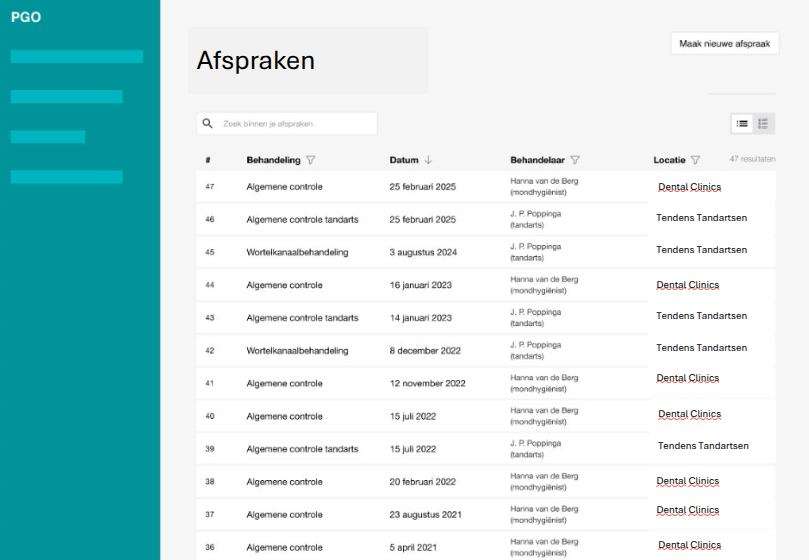
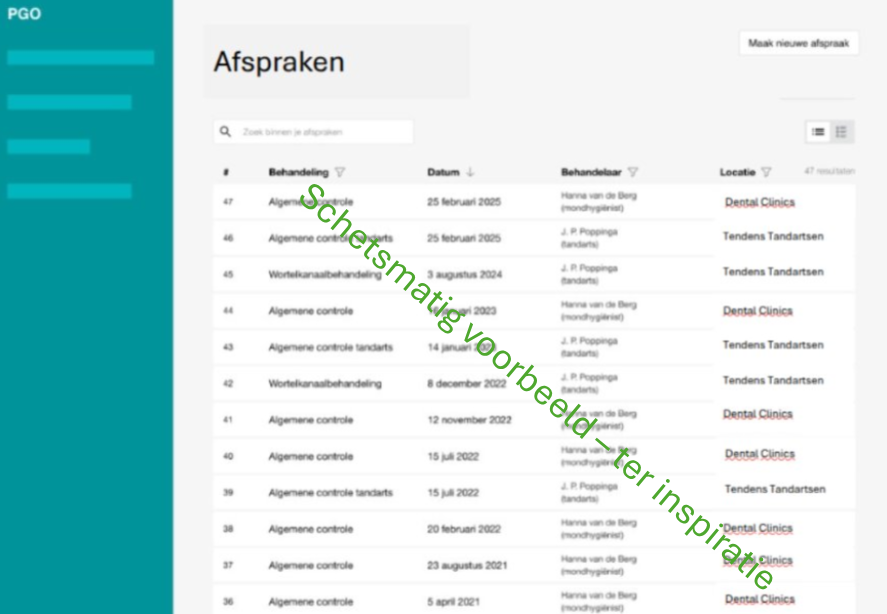
DOSINZAGE1-1030: Applied changes initially made in DOSINZAGE1-1001

diff --git a/guides/medmij-r4-dental-care-ig/Home/Functional-Design/Display-guideline.page.md b/guides/medmij-r4-dental-care-ig/Home/Functional-Design/Display-guideline.page.md
@@ -55,7 +55,7 @@ De acceptatiecriteria voor de overzichtsschermen van elke CIM is als volgt.
 | --- | --- |
 | 1 | Standaard worden alle beschikbaar gestelde gegevens van de zorgaanbieders(s) overzichtelijk weergegeven, gesorteerd op datum van nieuw naar oud. |
 | 2 | Je kunt zoeken op (delen van) de gegevens of op informatie uit de datavelden in het overzichtsscherm. De datum vormt hierop een uitzondering, omdat hiervoor al een periode kan worden opgegeven. |
-| 3 | Voor de datavelden in het overzichtsscherm is het mogelijk om te filteren op één of meerdere waarden. De datum vormt hierop een uitzondering, omdat hiervoor al een periode kan worden opgegeven. |
+| 3 | Voor de datavelden in het overzichtsscherm is het mogelijk om te filteren op één of meerdere waarden. De datum vormt hierop een uitzondering, omdat hiervoor al een periode kan worden opgegeven. Ook datavelden die leiden tot een te lange lijst vormen een uitzondering. |
 | 4 | Voor het datumveld in het overzichtsscherm kun je een specifieke periode selecteren. |
 | 5 | In het overzichtsscherm kan minimaal op datum worden gesorteerd, maar bij voorkeur is sorteren op alle datavelden mogelijk. |
 | 6 | De datavelden in het overzichtsscherm zijn begrijpelijk en gebruiksvriendelijk geformuleerd. Zie de {{pagelink: Weergaverichtlijn, text: Tabel met specificaties, anchor: TabelSpecificaties}} voor de aanbevolen termen per opgehaald dataveld. In verband met beperkte schermruimte op mobiele apparaten mogen de labelnamen van de datavelden in het overzichtsscherm worden weggelaten. |
@@ -371,7 +371,7 @@ Breedteverdeling (op basis van eerdere mapping):
     </tr>
     <tr>
       <td>ASAScoreDatumTijd</td><td>Item</td><td>medmij-core-dataelement-2</td><td>01-01-2024</td><td>a</td>
-      <td></td><td>Datum</td><td></td><td>M</td>
+      <td></td><td>Datum of Datum en tijd</td><td></td><td>M</td>
     </tr>
     <tr>
       <td>ASAScoreWaarde</td><td>Item</td><td>medmij-core-dataelement-3</td><td>ASA-score 1 Gezonde patiënt (code '413495001' in codesysteem 'SNOMED CT')</td><td>a</td>
@@ -608,7 +608,7 @@ Breedteverdeling (op basis van eerdere mapping):
     </tr>
     <tr>
       <td>CariësrisicoDatumTijd</td><td>Item</td><td>mz-dataelement-2</td><td>01-01-2024</td><td>a</td>
-      <td></td><td>Datum</td><td></td><td>M</td>
+      <td></td><td>Datum of Datum en tijd</td><td></td><td>M</td>
     </tr>
     <tr>
       <td>CariësrisicoWaarde</td><td>Item</td><td>mz-dataelement-3</td><td>Laag (code '62482003' in codesysteem 'SNOMED CT')</td><td>a</td>
@@ -658,7 +658,7 @@ Breedteverdeling (op basis van eerdere mapping):
     </tr>
     <tr>
       <td>DentalFitnessDatumTijd</td><td>Item</td><td>mz-dataelement-7</td><td>01-01-2024</td><td>a</td>
-      <td></td><td>Datum</td><td></td><td>M</td>
+      <td></td><td>Datum of Datum en tijd</td><td></td><td>M</td>
     </tr>
     <tr>
       <td>DentalFitnessWaarde</td><td>Item</td><td>mz-dataelement-8</td><td>Klasse 1: vereist geen tandheelkundige behandeling</td><td>a</td>
@@ -701,7 +701,7 @@ Breedteverdeling (op basis van eerdere mapping):
     </tr>
     <tr>
       <td>MondhygiëneDatumTijd</td><td>Item</td><td>mz-dataelement-12</td><td>01-01-2024</td><td>a</td>
-      <td></td><td>Datum</td><td></td><td>M</td>
+      <td></td><td>Datum of Datum en tijd</td><td></td><td>M</td>
     </tr>
     <tr>
       <td>MondhygiëneWaarde</td><td>Item</td><td>mz-dataelement-13</td><td>Slecht (code '556001' in codesysteem 'SNOMED CT')</td><td>a</td>
@@ -744,7 +744,7 @@ Breedteverdeling (op basis van eerdere mapping):
     </tr>
     <tr>
       <td>ParafunctioneleActiviteitDatumTijd</td><td>Item</td><td>mz-dataelement-17</td><td>01-01-2024</td><td>a</td>
-      <td></td><td>Datum</td><td></td><td>M</td>
+      <td></td><td>Datum of Datum en tijd</td><td></td><td>M</td>
     </tr>
     <tr>
       <td>Parafunctionele activiteit waarde</td><td>Item</td><td>mz-dataelement-18</td><td>Overmatig knarsen bij stress</td><td>a</td>
@@ -786,7 +786,7 @@ Breedteverdeling (op basis van eerdere mapping):
     </tr>
     <tr>
       <td>PPSDatumTijd</td><td>Item</td><td>mz-dataelement-22</td><td>01-01-2024</td><td>a</td>
-      <td></td><td>Datum</td><td></td><td>M</td>
+      <td></td><td>Datum of Datum en tijd</td><td></td><td>M</td>
     </tr>
     <tr>
       <td>PPSScore</td><td>Item</td><td>mz-dataelement-23</td><td>Pockets 0-3 millimeter = in orde (code 'ppsscore1' in codesysteem 'PeriodicPeriodontalScreeningScore')</td><td>a</td>
@@ -827,11 +827,11 @@ Breedteverdeling (op basis van eerdere mapping):
     </tr>
     <tr>
       <td>VerrichtingStartDatum</td><td>Item</td><td>NL-CM:14.1.2</td><td> 01-01-2024</td><td>a</td>
-      <td></td><td>Startdatum verrichting of Startdatum</td><td></td><td>M</td>
+      <td></td><td>Startdatum of Startdatum verrichting of Startdatum en tijd</td><td></td><td>M</td>
     </tr>
     <tr>
       <td>VerrichtingEindDatum</td><td>Item</td><td>NL-CM:14.1.3</td><td> 01-01-2024</td><td>b</td>
-      <td></td><td>Einddatum verrichting of Einddatum</td><td></td><td>M</td>
+      <td></td><td>Einddatum of Einddatum verrichting of Einddatum en tijd</td><td></td><td>M</td>
     </tr>
     <tr>
       <td>VerrichtingType</td><td>Item</td><td>NL-CM:14.1.4</td><td>H42 Wortelpuntoperatie, per tandwortel, zonder afsluiting (code 'H42' in codesysteem 'Vektis Prestatiecodelijst Mondzorg')</td><td>a</td>
